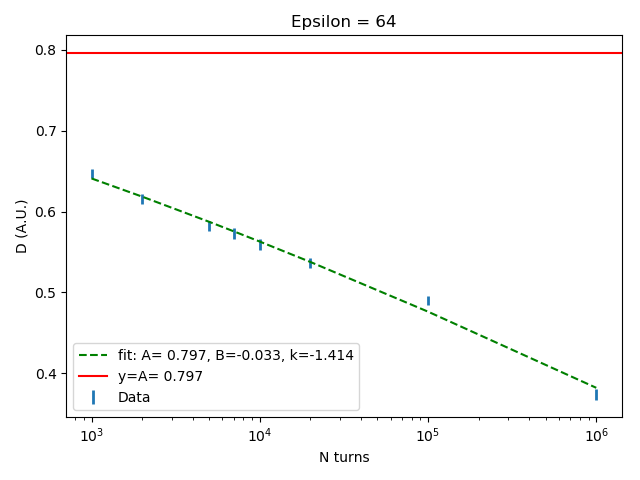
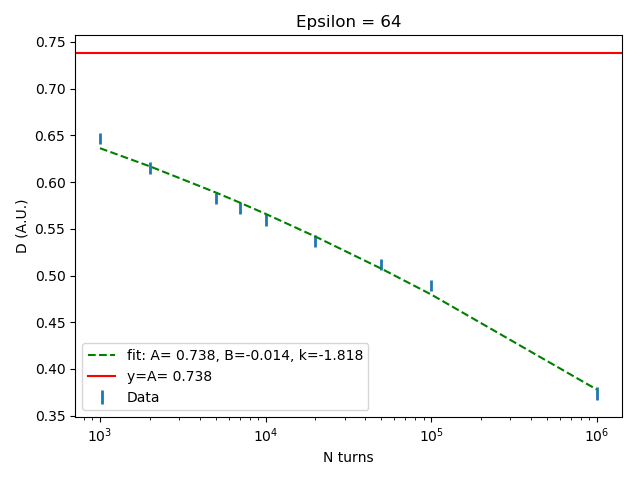
better images, more data

diff --git a/run4.py b/run4.py
@@ -1,0 +1,30 @@
+from tracker import *
+
+# "The step in r must be equal to the step
+# in theta times <|dr/dtheta|> to optimize
+# the integration steps."
+
+# TODO :: elaborate new method of stability map display
+
+'''
+look = modulated_map_scan(-1,1,0,1,200,100,1000,1)
+look[look != -1] = 0
+look[look == -1] = 1
+print(look)
+plt.imshow(look, origin='lower', extent = (0, 1, -1, 1))
+plt.show()
+'''
+dx = 0.01
+nangles = 30
+angles = np.linspace(0, np.pi/4, nangles)
+epsilons = [32, 64]
+n_turns = [3000, 4000, 6000, 8000, 30000, 40000, 60000, 80000]
+
+for t in n_turns:
+	for e in epsilons:
+		print("Working now on t={}, epsilons={}...".format(t,e))
+		data = np.empty((len(angles)))
+		for i in range(len(angles)):
+			data[i] = modulated_radius_scan(angles[i], dx, t, e)
+		np.save("radscan_T{}_dx{}_nthet{}_epsilon{}".format(t,dx,nangles,e), data)
+

diff --git a/fit.py b/fit.py
@@ -9,7 +9,9 @@ angles = np.linspace(0, np.pi/4, nangles)
 dtheta = angles[1] - angles[0]
 epsilons = [0, 1, 2, 4, 8, 16, 32, 64]
 #n_turns = [1000, 2000, 5000, 7000, 10000, 20000, 50000, 70000, 100000, 200000, 500000, 700000, 1000000, 2000000]
-n_turns = [1000, 2000, 5000, 7000, 10000, 20000, 100000, 1000000]
+n_turns = [1000, 2000, 5000, 7000, 10000, 20000, 50000, 100000, 1000000]
+
+#n_turns = [3000, 4000, 6000, 8000, 30000, 40000, 60000, 80000]
 
 n_turns = np.asarray(n_turns)
 
